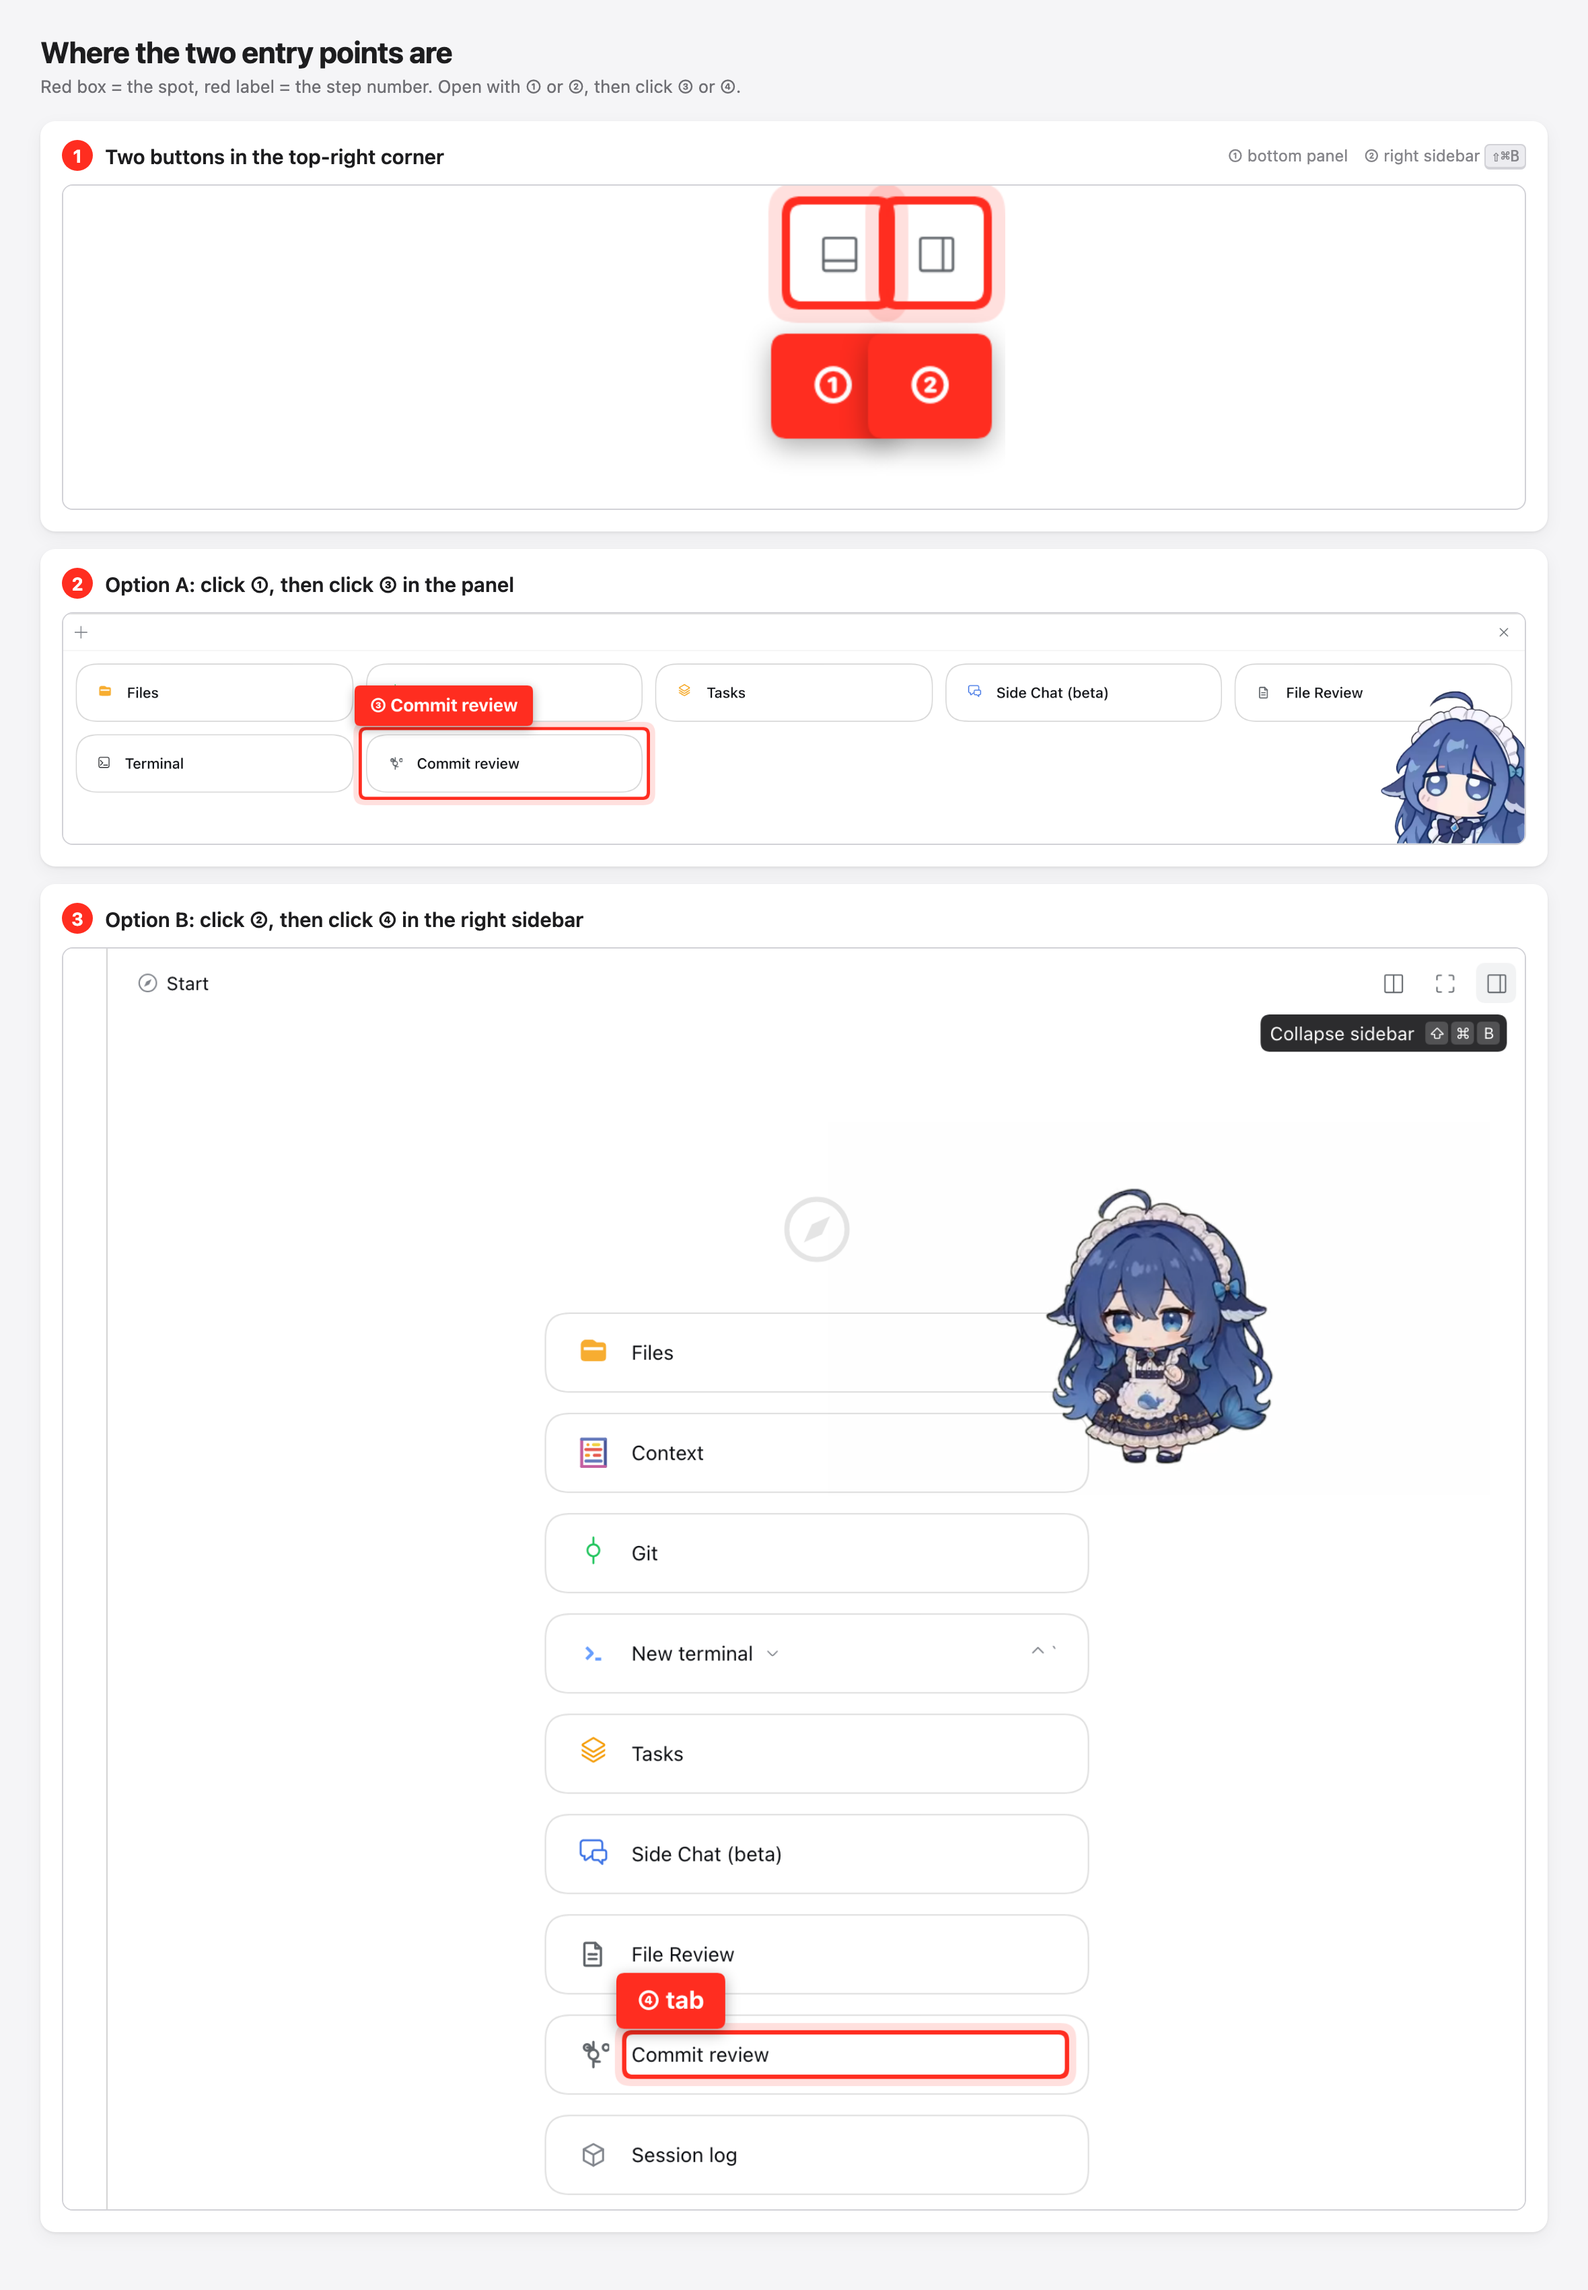
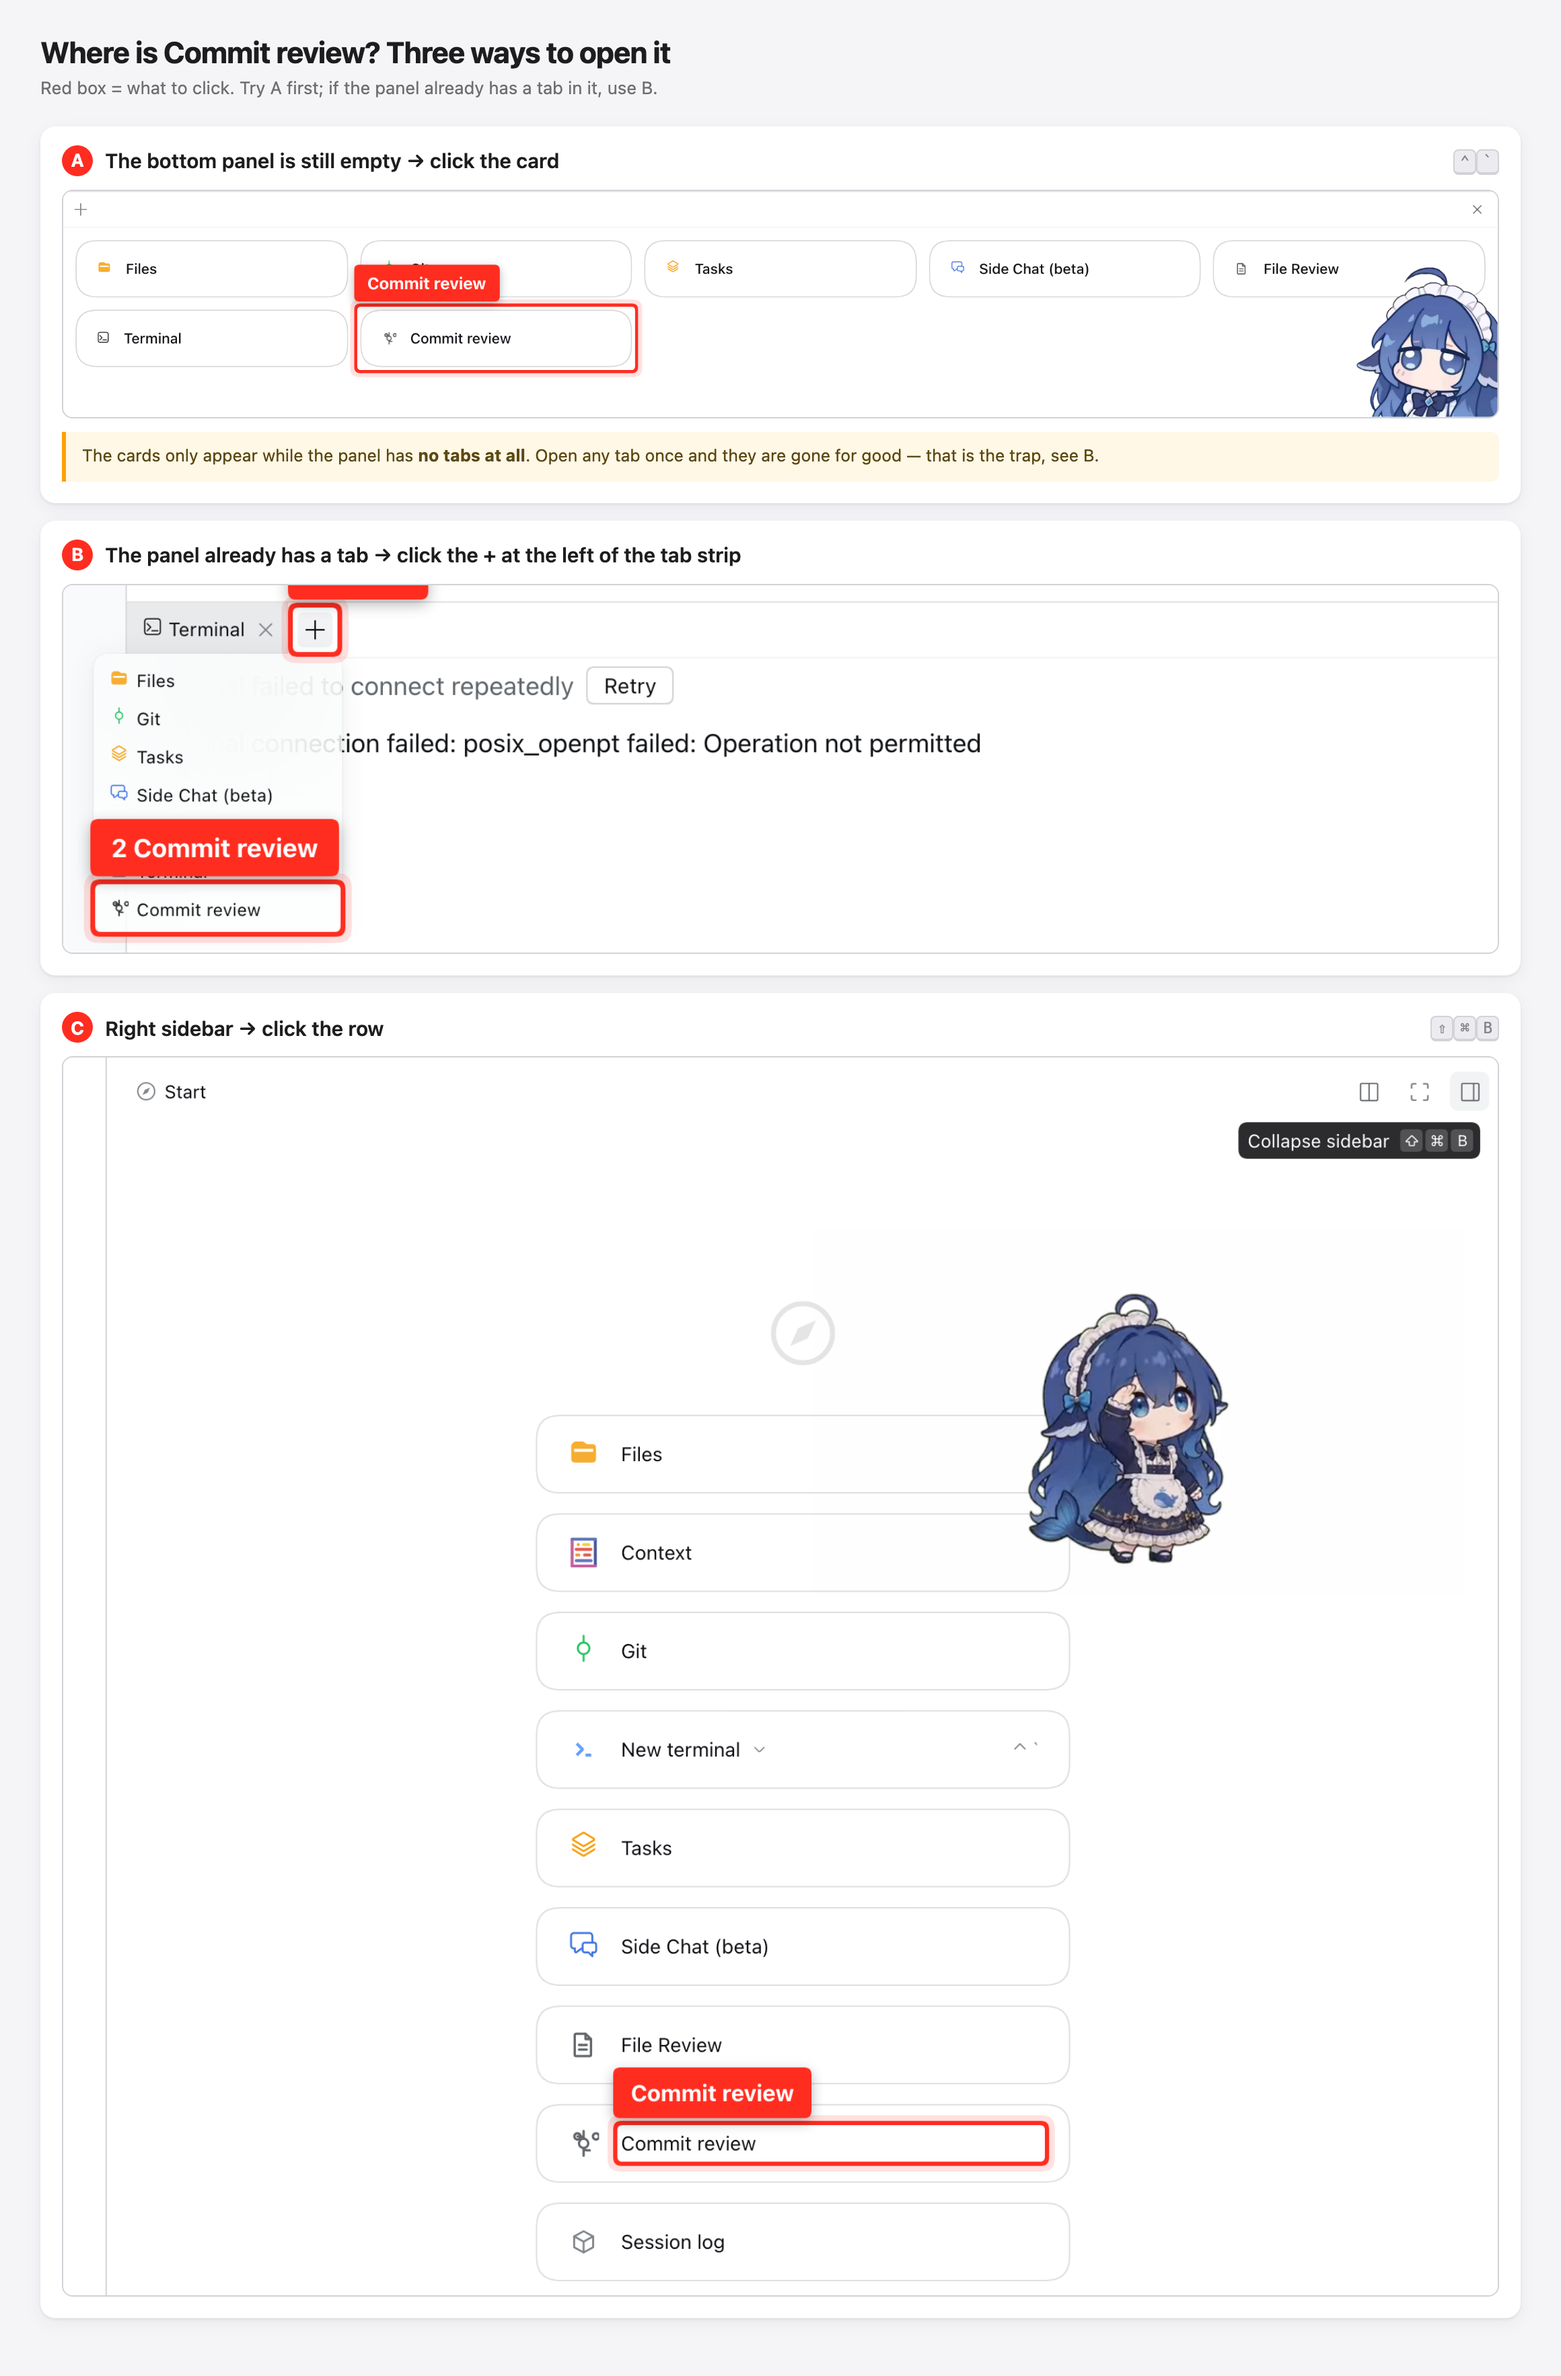
docs: cover the three real ways to open the tab
The empty-pane cards are only rendered while the panel has no tabs at all,
so a returning user sees a tab strip and no cards. Document the + menu route
and show all three paths with annotated screenshots.

diff --git a/README.zh-CN.md b/README.zh-CN.md
@@ -8,12 +8,15 @@
 
 ## 入口在哪（找不到页签时先看这张图）
 
-![两个入口的位置](docs/guide-entry-points.zh.png)
+![三种打开方式](docs/guide-entry-points.zh.png)
 
-1. 点右上角的 **① 底部面板** 按钮（`Expand bottom panel`）→ 面板里一排卡片，点 **③ `Commit review`**；
-2. 或者点右上角的 **② 右侧栏** 按钮（`Open right sidebar`，快捷键 <kbd>⇧⌘B</kbd>）→ 在右侧栏列表里点 **④ `Commit review`**。
+**方式 A —— 底部面板还空着时**：点右上角的 `Expand bottom panel`（<kbd>⌃</kbd><kbd>\`</kbd>），面板里会出现一排卡片，点 `Commit review`。
 
-两个按钮都在窗口**右上角**、`Split` / `Fullscreen` 左边，图标都是「面板」形状，只差一个朝下、一个朝右。
+**方式 B —— 底部面板里已经有页签时**：那排卡片会消失，只剩页签栏。点页签栏左边的 **`+`**（`New tab`），菜单里就有 `Commit review`。
+
+**方式 C —— 右侧栏**：点右上角的 `Open right sidebar`（<kbd>⇧</kbd><kbd>⌘</kbd><kbd>B</kbd>），在列表里点 `Commit review`。
+
+> **最容易踩的坑**：方式 A 的卡片只在面板**完全空着**时出现。只要你在这个面板里开过 `Terminal`、`Git` 之类任何一个页签，卡片就永久消失了（DSH 会记住布局）—— 这时候不是插件没装上，而是要用方式 B 的 `+`。
 
 ## 它长什么样
 

diff --git a/README.md b/README.md
@@ -10,15 +10,22 @@ Read-only by design: the plugin only runs `git log` / `git show` /
 
 ## Where the two entry points are
 
-![Where the two entry points are](docs/guide-entry-points.en.png)
+![Three ways to open it](docs/guide-entry-points.en.png)
 
-1. Click **① Expand bottom panel** (top-right) → a row of cards appears → click
-   **③ `Commit review`**.
-2. Or click **② Open right sidebar** (top-right, <kbd>⇧⌘B</kbd>) → click
-   **④ `Commit review`** in the sidebar list.
+**A — the bottom panel is still empty:** click `Expand bottom panel` (top-right,
+<kbd>⌃</kbd><kbd>\`</kbd>). A row of cards appears; click `Commit review`.
 
-Both buttons sit in the **top-right corner**, just left of `Split` /
-`Fullscreen`. Same panel-shaped icon; one points down, one points right.
+**B — the bottom panel already has a tab in it:** the cards are gone and only
+the tab strip is left. Click the **`+`** (`New tab`) at the left of the strip —
+`Commit review` is in that menu.
+
+**C — right sidebar:** click `Open right sidebar` (top-right,
+<kbd>⇧</kbd><kbd>⌘</kbd><kbd>B</kbd>) and click `Commit review` in the list.
+
+> **The trap:** the cards from A only render while the panel has **no tabs at
+> all**. Open `Terminal` or `Git` in it once and they disappear permanently —
+> DSH persists the layout. That does not mean the plugin failed to load; use
+> the `+` menu from B.
 
 ## What you get
 
